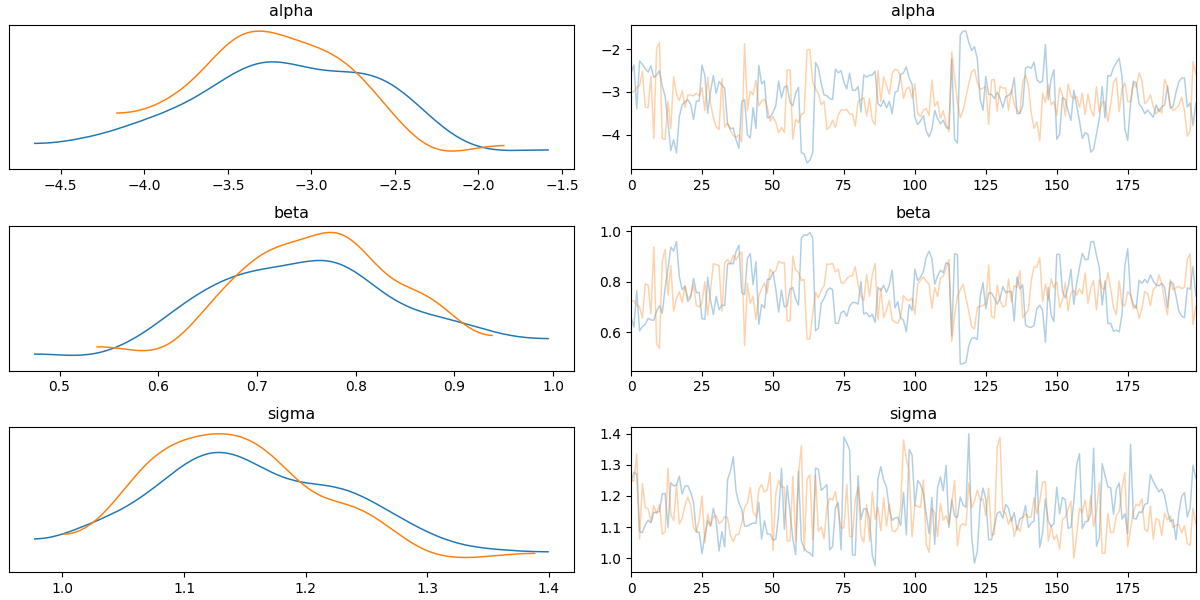
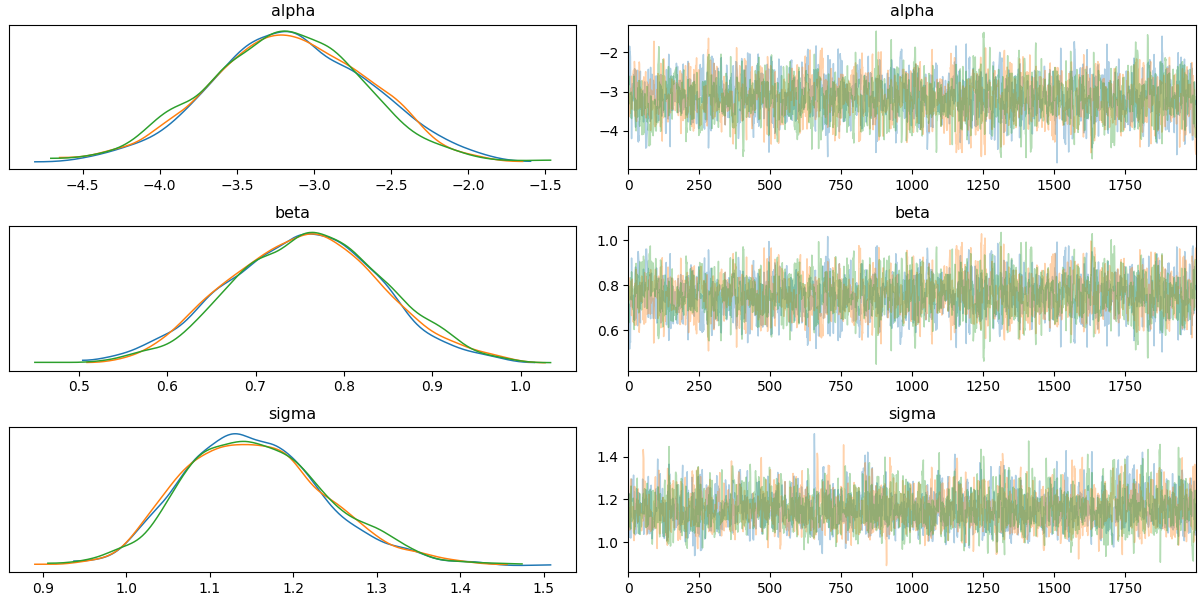
updated code and readme

diff --git a/scripts/analysis.py b/scripts/analysis.py
@@ -25,6 +25,8 @@ os.makedirs(FIGURES_DIR, exist_ok=True)
 
 # Function to load datasets
 def load_data():
+    """Loads the data from the /data/ directory"""
+    
     logging.info("Loading datasets...")
     hydro_path = os.path.join(DATA_DIR, "camels_hydro.txt")
     topo_path = os.path.join(DATA_DIR, "camels_topo.txt")
@@ -41,6 +43,16 @@ def load_data():
 
 # Function to preprocess data
 def preprocess_data(camels_hydro, camels_topo, camels_geos):
+    """Processes data, merging the datasets into a single dataset on the shared
+    'hru_id' column.
+    args:
+        camels_hydro (pd.DataFrame) : the hydrological data with col 'q_mean'
+        camels_topo (pd.DataFrame) : the topological data with col 'area_gages2'
+        camels_geos (gpd.GeoDataFrame) : the geospatial data with 'geometry' col. 
+        
+    returns:
+        gpd.GeoDataFrame : merged on the 'hru_id' column
+    """
     logging.info("Merging and processing datasets...")
     camels_basins = pd.merge(camels_geos, camels_hydro, on='hru_id')
     camels_basins = pd.merge(camels_basins, camels_topo, on='hru_id')
@@ -51,6 +63,7 @@ def preprocess_data(camels_hydro, camels_topo, camels_geos):
     
     # Convert to GeoDataFrame
     camels_basins = gpd.GeoDataFrame(camels_basins, geometry='geometry')
+
     return camels_basins
 
 # Function to visualize data
@@ -66,9 +79,16 @@ def plot_data(camels_basins):
 
 # Function to run Bayesian regression
 def run_bayesian_model(camels_basins):
+    """Runs the bayesian model on the data
+    args:
+        camels_basins (pd.DataFrame) : the full dataset to apply the model to.
+    returns:
+        trace (pm.trace) : the trace output of the model.
+    """
+    
     logging.info("Running Bayesian regression model...")
     sample_data = camels_basins.sample(n=100, random_state=SEED)
-    
+    # apply log with mean interpolation of missing data
     xs = np.log(sample_data['area_gages2'].fillna(sample_data['area_gages2'].mean()))
     ys = np.log(sample_data['q_mean_cms'].fillna(sample_data['q_mean_cms'].mean()))
     
@@ -82,7 +102,7 @@ def run_bayesian_model(camels_basins):
         mu = alpha + beta * xs
         y = pm.Normal('y', mu=mu, sigma=sigma, observed=ys)
         
-        trace = pm.sample(200, cores=1, random_seed=SEED)
+        trace = pm.sample(2000, cores=3, random_seed=SEED)
     
     az.plot_trace(trace, figsize=(12, 6))
     plt.savefig(os.path.join(FIGURES_DIR, 'fig2.png'))

diff --git a/README.md b/README.md
@@ -10,6 +10,8 @@ numpy==1.19.5
 matplotlib==3.3.4
 arviz==0.10.0
 
+Running this code on a GPU will significantly improve inference speed.
+
 NOTE: This has been run successfully on both a Windows 10 and an Oracle Linux 9.5 Server
 
 ## Installation and Setup
@@ -45,10 +47,30 @@ Once everything is installed, you can run the analysis script:
 ```
 python scripts/analysis.py
 ```
+## Testing
+A test suite for the code can be found in `scripts/tests.py` and can be run using:
+```
+$ python scripts/tests.py
+```
+All tests currently run without failiure (13/02/25).
+
+## Data
+Data has been extracted from this website https://gdex.ucar.edu/dataset/camels/file.html on 12/02/25. You do not need the full dataset from this site to perform this analysis. Specifically, the data used in this analysis is as follows:
+
+* Geospatial data : `basin_set_full_res.zip`, saved in this repo as `data\camel_data.shp`
+* Hydrological data : `camels_hydros.txt`
+* Topological data : `camels_topo.txt`
+
 ## Output
 * Figures (`fig1.png`, `fig2.png` and `fig3.png`) are saved in `results\figures\`
 * Regression results stored in `results\results.csv`
 * Logs printed to terminal
+
+## Citation
+Please cite this code as
+```
+...
+```
 
 ## License
 MIT License
